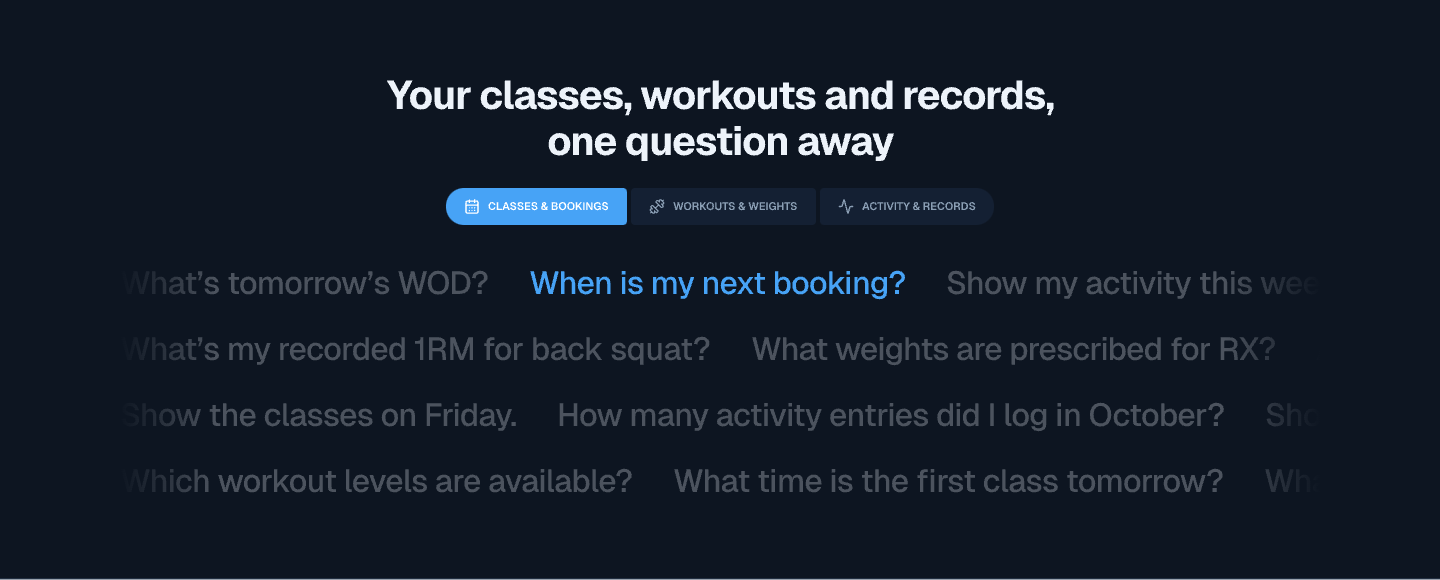
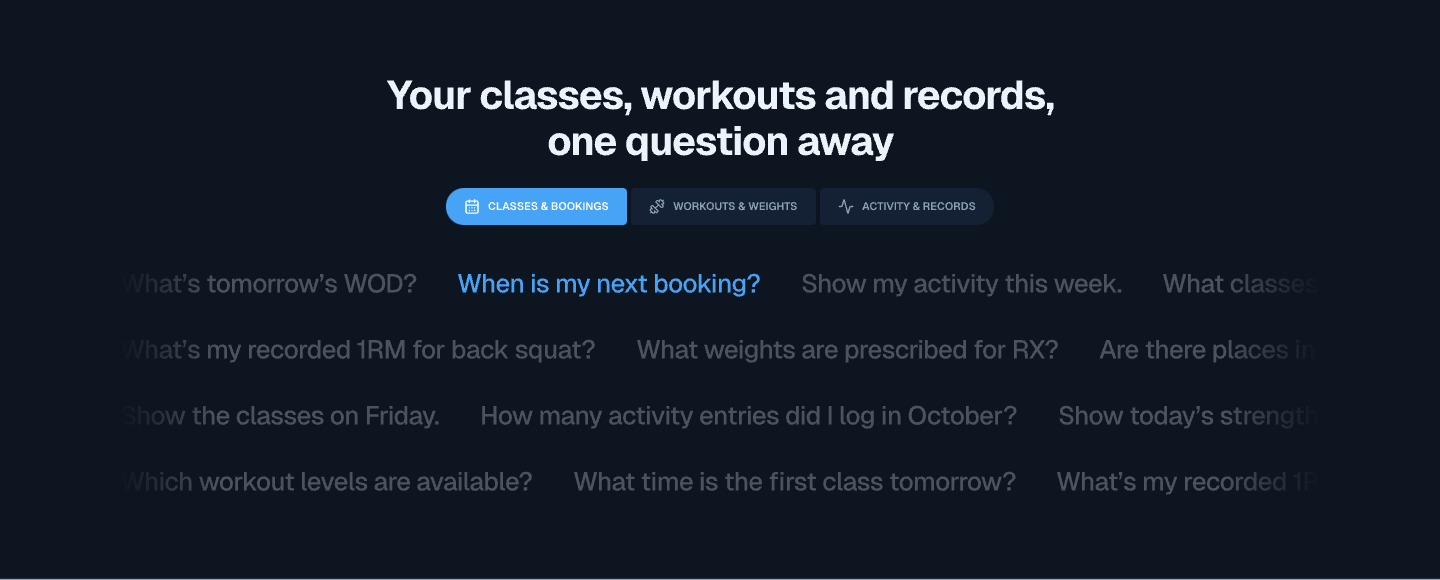
design: reduce question type and gently accelerate tickers

diff --git a/design/home-study/hero-motion-prototype.html b/design/home-study/hero-motion-prototype.html
@@ -6,4 +6,4 @@
 @media(max-width:1320px){.kettle{left:-60px;top:116px;width:300px;height:344px}.kettle img{width:435.13px;height:435.13px;left:-68px;top:-57.79px}.answer{width:300px}.ground{left:-36px;top:450px;width:266px}.ground::after{left:34px;width:198px}}
 @media(max-width:1150px){.hero{grid-template-columns:46% 1fr;gap:40px}h1{font-size:50px}.brand{font-size:20px}.utilities{gap:16px}.nav{gap:24px}.question{width:270px}.answer{width:300px}.kettle{left:-70px}.apps{gap:12px}.app{font-size:12px;gap:5px}}
 @media(max-width:850px){.container{width:calc(100% - 40px)}.header-inner{grid-template-columns:1fr auto;min-height:80px}.nav{display:none}.utilities{gap:16px}.language{display:none}.hero{display:block;padding-top:28px}.pitch{max-width:532px}.scene{height:520px;margin:32px auto 0;max-width:596px}.kettle{left:0;top:126px}.ground{top:460px}.question{right:0}.answer{right:0}.apps{flex-wrap:wrap}h1{font-size:44px}.header-signin{min-width:100px;padding:12px 18px}.brand{font-size:17px}.brand img{width:35px;height:40px}}
[2 lines of base64/hex data omitted]

diff --git a/design/home-study/question-ticker.js b/design/home-study/question-ticker.js
@@ -34,7 +34,7 @@ for (const [index, row] of rows.entries()) {
   viewport.className = 'question-ticker';
   const track = document.createElement('div');
   track.className = 'question-track';
-  track.style.setProperty('--duration', `${[176, 208, 192, 216][index]}s`);
+  track.style.setProperty('--duration', `${[130, 154, 142, 160][index]}s`);
   for (let copy = 0; copy < 2; copy++) {
     const group = document.createElement('ul');
     group.className = 'question-group';

diff --git a/design/home-study/question-ticker.css b/design/home-study/question-ticker.css
@@ -82,7 +82,7 @@
   color: var(--ink);
   opacity: .28;
   white-space: nowrap;
-  font-size: 32px;
+  font-size: 26px;
   font-weight: 500;
   line-height: 1.25;
   letter-spacing: -.6px;

diff --git a/design/home-study/question-ticker-study.md b/design/home-study/question-ticker-study.md
@@ -1,6 +1,6 @@
 # AIHarder — question ticker study
 
-**Current refinement:** questions now form a large unboxed text wall. The owner superseded the initial question-pill treatment below; topic pills are retained. See the text-wall revision at the end and [current checks](question-text-wall-checks.json).
+**Current refinement:** questions now form an unboxed 26px text wall with slightly faster ticker drift. The [size/speed checks](question-size-speed-checks.json) are current for those properties. The owner superseded the initial question-pill treatment below; topic pills are retained. See the text-wall revision at the end and [current checks](question-text-wall-checks.json).
 
 Date: 2026-11-01. Current English desktop Light/Dark refinement under #95.
 
@@ -77,3 +77,11 @@ Outer radii are now bounded at 18px in desktop CSS/native Pen and 16px with the 
 A temporary Python/Pillow pixel probe exercised the actual exported component: at the first pill's two right corners and the last pill's two left corners, the prior immutable export had alpha 255 (square) and failed; corrected Light and Dark exports have alpha 0 and pass. This is a rendered regression check, rather than another assertion of the declarations. The small component and isolated property normalization made broad bisection/log instrumentation unnecessary. No debug logging or test dependency was added to the repository. The current native and browser exports were inspected and saved, and all protected roots remain unchanged. [Checks](topic-pill-checks.json) record the exact samples, immutable before-image hash and browser observations.
 
 Existing architecture/security/distribution ADRs remain applicable; no API or production runtime behavior changed. No MCP runtime suite is needed for this rendering-only correction. Owner visual approval remains pending.
+
+## Question size and drift refinement — 2026-11-01
+
+The owner annotated 32px → 26px question text and requested slightly faster tickers. The base `.question-text` rule is now 26px in both themes and across existing widths, rather than a special exception for the annotated 1044px viewport. Only questions change size: the section title, topic labels, 500 weight, tracking, 52px row boxes, masks, gaps and alternating directions remain unchanged. Both English desktop native Pen sections use 26px text; the six frozen variants remain untouched.
+
+The row durations are now 130/154/142/160 seconds instead of 176/208/192/216. Shorter text also shortens the travel distance, so simply reducing duration by 10% would have made the visible movement slower. Browser geometry/duration measurements before and after show a 10.6–11.2% increase in computed linear pixel speed, a small acceleration: approximately 15.50/15.09/14.76/13.91 px/s. This is a designed CSS travel-rate check, not a device-performance benchmark. The three-second question/topic emphasis interval stays unchanged.
+
+Native screenshots and exports were inspected and saved; 20 questions per active page are 26px, and all 15 protected-root fingerprints match. Browser inspection confirms 26px in Light/Dark, the four new durations, alternating normal/reverse directions, matching topic/question emphasis after a tick, no page overflow and no observed warnings/errors in the inspected Dark session. JavaScript syntax and document links pass. [Current checks](question-size-speed-checks.json) include measurements and source/export hashes; earlier size/speed checkpoints are historical. No API, production dependency, architecture or ADR decision changes, so no MCP runtime suite is needed.

diff --git a/design/home-study/README.md b/design/home-study/README.md
@@ -1,6 +1,6 @@
 # AIHarder — public home study
 
-**Latest refinement — 2026-11-01:** The segmented topics now use bounded exterior radii (18px desktop / 16px narrow) so the 4px inward corners render correctly; the gap stays 4px.  [Compact topic pills](question-ticker-study.md#compact-topic-pills--2026-11-01) use 11px/600 uppercase labels, 16px icons, no border/minimum height and the active question's blue with white text/icons. The 32px question wall and alternating directions are retained. Updated English desktop Light/Dark Pen and HTML only; six other home variants remain frozen. [Current topic checks](topic-pill-checks.json).
+**Latest refinement — 2026-11-01:** Questions are now 26px and drift about 11% faster; [size/speed checks](question-size-speed-checks.json).  The segmented topics now use bounded exterior radii (18px desktop / 16px narrow) so the 4px inward corners render correctly; the gap stays 4px.  [Compact topic pills](question-ticker-study.md#compact-topic-pills--2026-11-01) use 11px/600 uppercase labels, 16px icons, no border/minimum height and the active question's blue with white text/icons. The unboxed question wall and alternating directions are retained. Updated English desktop Light/Dark Pen and HTML only; six other home variants remain frozen. [Current topic checks](topic-pill-checks.json).
 
 Current checkpoint (2026-11-01): the latest hero is saved in [ahmcp.pen](../ahmcp.pen), in the English desktop Light/Dark frames only. See [Pen synchronization](pen-sync.md) for the native editor handoff, exports and verification. The Grainient background is a static capture; foreground copy, buttons and bubbles remain editable. Character animation and typed replies remain in the [HTML motion prototype](hero-motion-prototype.html).
 
